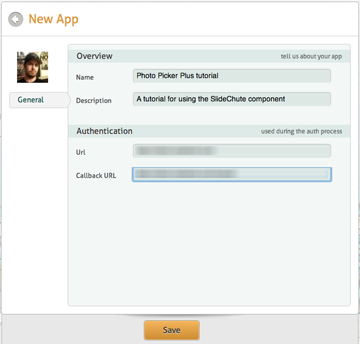
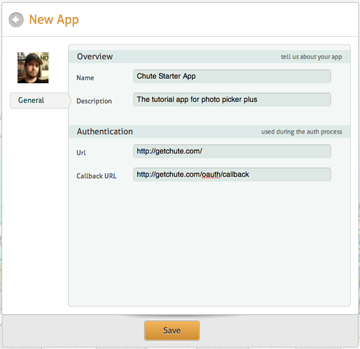
Changed some images and updated the tutorials

diff --git a/iOS/tutorial/ChuteStarterProject/Chute SDK/GCConstants.h b/iOS/tutorial/ChuteStarterProject/Chute SDK/GCConstants.h
@@ -35,8 +35,8 @@
 //replace the following setting with your own client info
 #define kOAuthCallbackURL               @"http://getchute.com/oauth/callback"
 #define kOAuthCallbackRelativeURL       @"/oauth/callback"
-#define kOAuthAppID                     @"PUT_CLIENT_ID_HERE"
-#define kOAuthAppSecret                 @"PUT_CLIENT_SECRET_HERE"
+#define kOAuthAppID                     @"XXXXXXXXXXXXXXXXXXXXXXXX"
+#define kOAuthAppSecret                 @"XXXXXXXXXXXXXXXXXXXXXXXXXXXXXXXXXXXXXXXXXXXXXXXXXXXXXXXXXXXXXXXX"
 
 #define kOAuthPermissions               @"all_resources manage_resources profile resources"
 

diff --git a/iOS/tutorial/ChuteStarterProject.md b/iOS/tutorial/ChuteStarterProject.md
@@ -18,6 +18,8 @@ Preparation
 1.  Download the Chute SDK from https://github.com/chute/Chute-SDK/tree/master/iOS
 2.  Download the PhotoPickerPlus component from https://github.com/chute/photo-picker-plus/tree/master/iOS/PhotoPickerPlus
 3.  Create a Chute developer account and make a new app in Chute at http://apps.getchute.com/
+	*  For the URL you can enter http://getchute.com/ if you don't have a site for your app
+	*  For the Callback URL you can use http://getchute.com/oauth/callback if you don't need callbacks for another purpose.
 
 ![image5](https://github.com/chute/photo-picker-plus/raw/master/iOS/tutorial/screenshots/5.png)
 ![image6](https://github.com/chute/photo-picker-plus/raw/master/iOS/tutorial/screenshots/6.png)
@@ -40,13 +42,15 @@ Add The SDK And Component And Link Dependancies
 
 Edit Your App ID And Secret
 ---------------------------
-The next step is to enter your chute app information in the GCConstants.h file.  This file can be found at the root of the Chute SDK directory.  You will need to fill in your APP ID and APP secret from the summary tab of your admin panel.  You will also need to adjust the redirect URL to match the callback url from the admin panel.  Then set the redirect relative url to everything after the base in the callback url.
+The next step is to enter your chute app information in the GCConstants.h file.  This file can be found at the root of the Chute SDK directory.  You will need to fill in your APP ID and APP secret from the summary tab of your admin panel.  If you used a custom Redirect URL when setting up your app on Chute you will also need to adjust the `kOauthCallbackURL` to match the callback url you set.  Then set the `kOauthCallbackRelativeURL` to everything after the base in the callback url.  If you used `http://getchute.com/oauth/callback` then you can leave these as they are.
+
+![image8](https://github.com/chute/photo-picker-plus/raw/master/iOS/tutorial/screenshots/8.png)
 
 At this point you may want to try running the project to make sure that everything is added ok.  If it builds then everything should be correctly added and linked.
 
 Set ViewController As Delegate And Add Objects/Methods
 -----------------------------------------------
-In your viewController.h file import PhotoPickerPlus.h and set up the class as a PhotoPickerPlusDelegate.  Then add an object for the image view and a method for pressing the pick photo button.  This should look similar to this
+In your viewController.h file import PhotoPickerPlus.h and set up the class as a `PhotoPickerPlusDelegate`.  Then add an object for the image view and a method for pressing the pick photo button.  This should look similar to this
 
 viewController.h
 
@@ -84,7 +88,7 @@ viewController.m
 
 Write The Delegate Methods
 --------------------------
-The  PhotoPickerPlusDelegate methods are PhotoPickerPlusControllerDidCancel: and PhotoPickerPlusController:didFinishPickingMediaWithInfo:.  These work exactly the same as the UIImagePickerController delegate methods to make things easier.  You can refer to Apple's documentation on UIImagePickerControllerDelegate to see what the keys in the dictionary are.  The only one we are going to be concerned with is UIImagePickerControllerOriginalImage.  So our cancel method will just dismiss the picker and our success method will display the image in the imageView and dismiss the picker.  The code for these methods is
+The PhotoPickerPlusDelegate methods are `PhotoPickerPlusControllerDidCancel:` and `PhotoPickerPlusController:didFinishPickingMediaWithInfo:`.  These work exactly the same as the UIImagePickerController delegate methods to make things easier.  You can refer to Apple's documentation on UIImagePickerControllerDelegate to see what the keys in the dictionary are.  The only one we are going to be concerned with is `UIImagePickerControllerOriginalImage`.  So our cancel method will just dismiss the picker and our success method will display the image in the imageView and dismiss the picker.  The code for these methods is
 
 viewController.m
 
@@ -105,7 +109,7 @@ Create The UI
 -------------
 Open viewController.xib and add an UIImageView covering most of the view and a UIButton below it.  Hook the UIImageView up to the imageView object and hook up the pickPhotoSelected method to the touchUpInside event of the button.  You do this by right clicking on the file's owner and dragging from the circle for the outlet or action that you want to it's corresponding object either in the object's list or in the view itself.  You can set the title for the button whatever you want by selecting it then changing it's title in the attribute inspector on the right side of the screen.  I called mine Pick Photo.  You also probably want to set the mode for the UIImageView to aspectFit which is accessed from the attribute inspector for the UIImageView.
 
-![image8](https://github.com/chute/photo-picker-plus/raw/master/iOS/tutorial/screenshots/8.png)
+![image9](https://github.com/chute/photo-picker-plus/raw/master/iOS/tutorial/screenshots/9.png)
 
 Conclusion
 ----------

diff --git a/iOS/tutorial/AddToExisting.md b/iOS/tutorial/AddToExisting.md
@@ -12,6 +12,8 @@ Preparation
 1.  Download the Chute SDK from https://github.com/chute/Chute-SDK/tree/master/iOS
 2.  Download the PhotoPickerPlus component from https://github.com/chute/photo-picker-plus/tree/master/iOS/PhotoPickerPlus
 3.  If you don't have a Chute developer account or an app created on chute for this project then create a Chute developer account and make a new app in Chute at http://apps.getchute.com/
+	*  For the URL you can enter http://getchute.com/ if you don't have a site for your app
+	*  For the Callback URL you can use http://getchute.com/oauth/callback if you don't need callbacks for another purpose.
 
 ![image5](https://github.com/chute/photo-picker-plus/raw/master/iOS/tutorial/screenshots/5.png)
 ![image6](https://github.com/chute/photo-picker-plus/raw/master/iOS/tutorial/screenshots/6.png)
@@ -34,13 +36,15 @@ Add The SDK And Component And Link Dependancies
 
 Edit Your App ID And Secret
 ---------------------------
-The next step is to enter your chute app information in the GCConstants.h file.  This file can be found at the root of the Chute SDK directory.  You will need to fill in your APP ID and APP secret from the summary tab of your admin panel.  You will also need to adjust the redirect URL to match the callback url from the admin panel.  Then set the redirect relative url to everything after the base in the callback url.
+The next step is to enter your chute app information in the GCConstants.h file.  This file can be found at the root of the Chute SDK directory.  You will need to fill in your APP ID and APP secret from the summary tab of your admin panel.  If you used a custom Redirect URL when setting up your app on Chute you will also need to adjust the `kOauthCallbackURL` to match the callback url you set.  Then set the `kOauthCallbackRelativeURL` to everything after the base in the callback url.  If you used `http://getchute.com/oauth/callback` then you can leave these as they are.
+
+![image8](https://github.com/chute/photo-picker-plus/raw/master/iOS/tutorial/screenshots/8.png)
 
 At this point you may want to try running the project to make sure that everything is added ok.  If it builds then everything should be correctly added and linked.
 
 Change your delegate
 --------------------
-In the header for the controller that will be using the component import the PhotoPickerPlus.h file and inherit the PhotoPickerPlusDelegate instead of the UIImagePickerDelegate protocol.
+In the header for the controller that will be using the component `#import "PhotoPickerPlus.h"` and inherit the `PhotoPickerPlusDelegate` instead of the `UIImagePickerDelegate` protocol.
 
 ```objective-c
 	#import <UIKit/UIKit.h>
@@ -55,7 +59,7 @@ In the header for the controller that will be using the component import the Pho
 
 Change The Delegate Methods
 ---------------------------
-In your class change imagePickerControllerDidCancel: to PhotoPickerPlusControllerDidCancel: and change imagePickerController:didFinishPickingMediaWithInfo: to PhotoPickerPlusController:didFinishPickingMediaWithInfo:.  You can leave the code in these methods exactly the same as you had before because the return values are the same format.  If you need to know which source the info came from you can call sourceType on the picker.
+In your class change `imagePickerControllerDidCancel:` to `PhotoPickerPlusControllerDidCancel:` and change `imagePickerController:didFinishPickingMediaWithInfo:` to `PhotoPickerPlusController:didFinishPickingMediaWithInfo:`.  You can leave the code in these methods exactly the same as you had before because the return values are the same format.  If you need to know which source the info came from you can call `sourceType` on the picker.
 
 ```objective-c
 	-(void) PhotoPickerPlusControllerDidCancel:(PhotoPickerPlus *)picker{
@@ -68,7 +72,7 @@ In your class change imagePickerControllerDidCancel: to PhotoPickerPlusControlle
 
 Displaying The Image Picker
 ---------------------------
-Finally replace the code to display the image picker.  Photo Picker Plus lets the user select a source for the image so you don't need to set it ahead of time.  The only other difference is that you should set your viewController's ModalPresentationStyle to UIModalPresentationCurrentContext for a non-navigation based project or set your navigationViewController's ModalPresentationStyle to UIModalPresentationCurrentContext for a  navigation based project.
+Finally replace the code to display the image picker.  Photo Picker Plus lets the user select a source for the image so you don't need to set it ahead of time.  The only other difference is that you should set your viewController's `ModalPresentationStyle` to `UIModalPresentationCurrentContext` for a non-navigation based project or set your navigationViewController's `ModalPresentationStyle` to `UIModalPresentationCurrentContext` for a navigation based project.
 
 ```objective-c
 	PhotoPickerPlus *temp = [[PhotoPickerPlus alloc] init];
